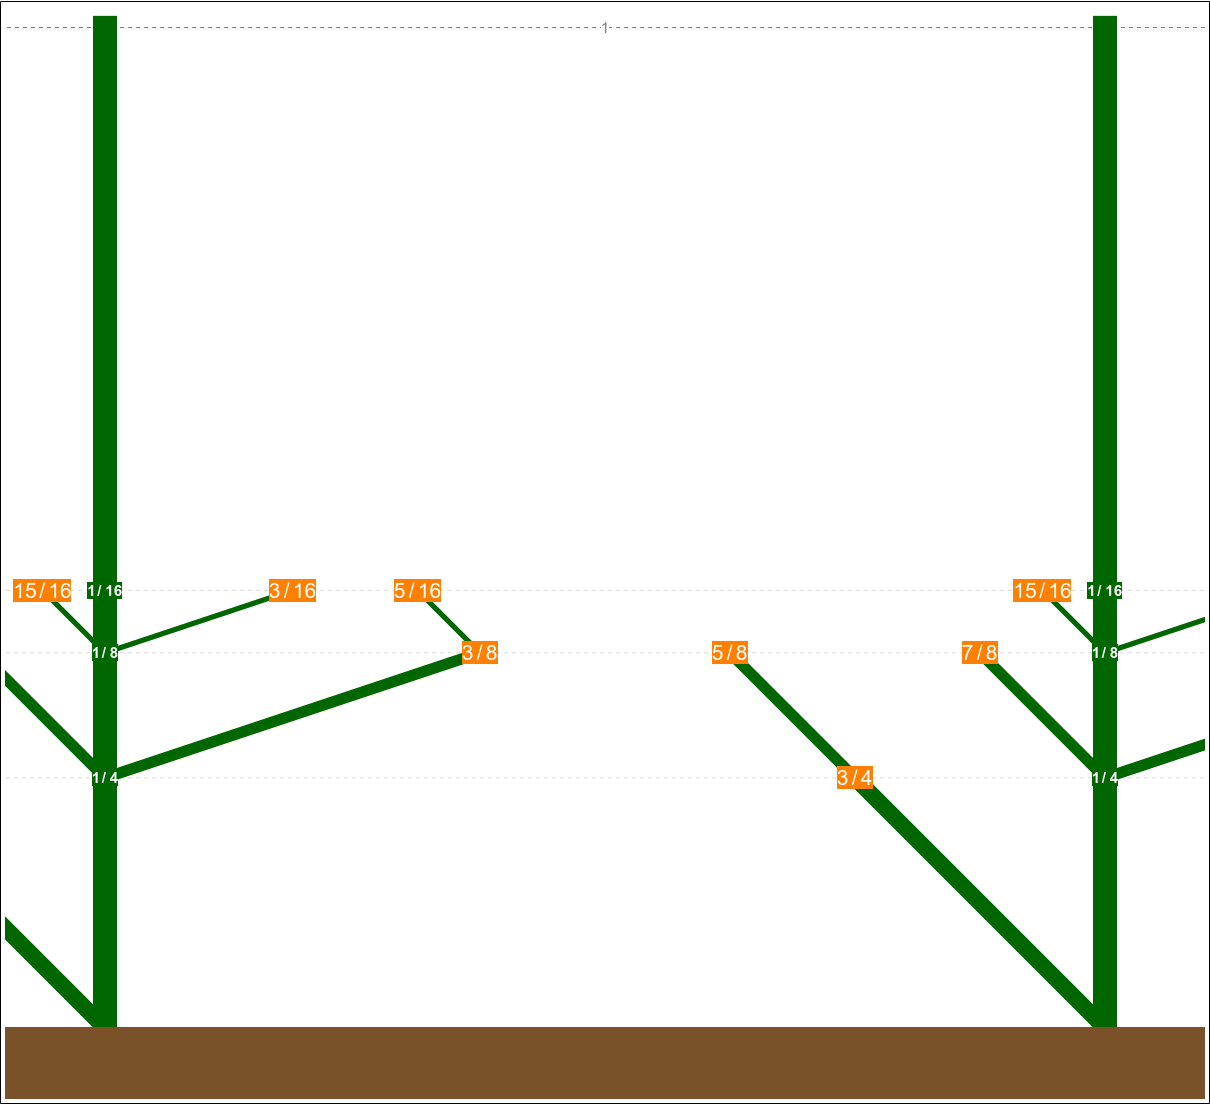
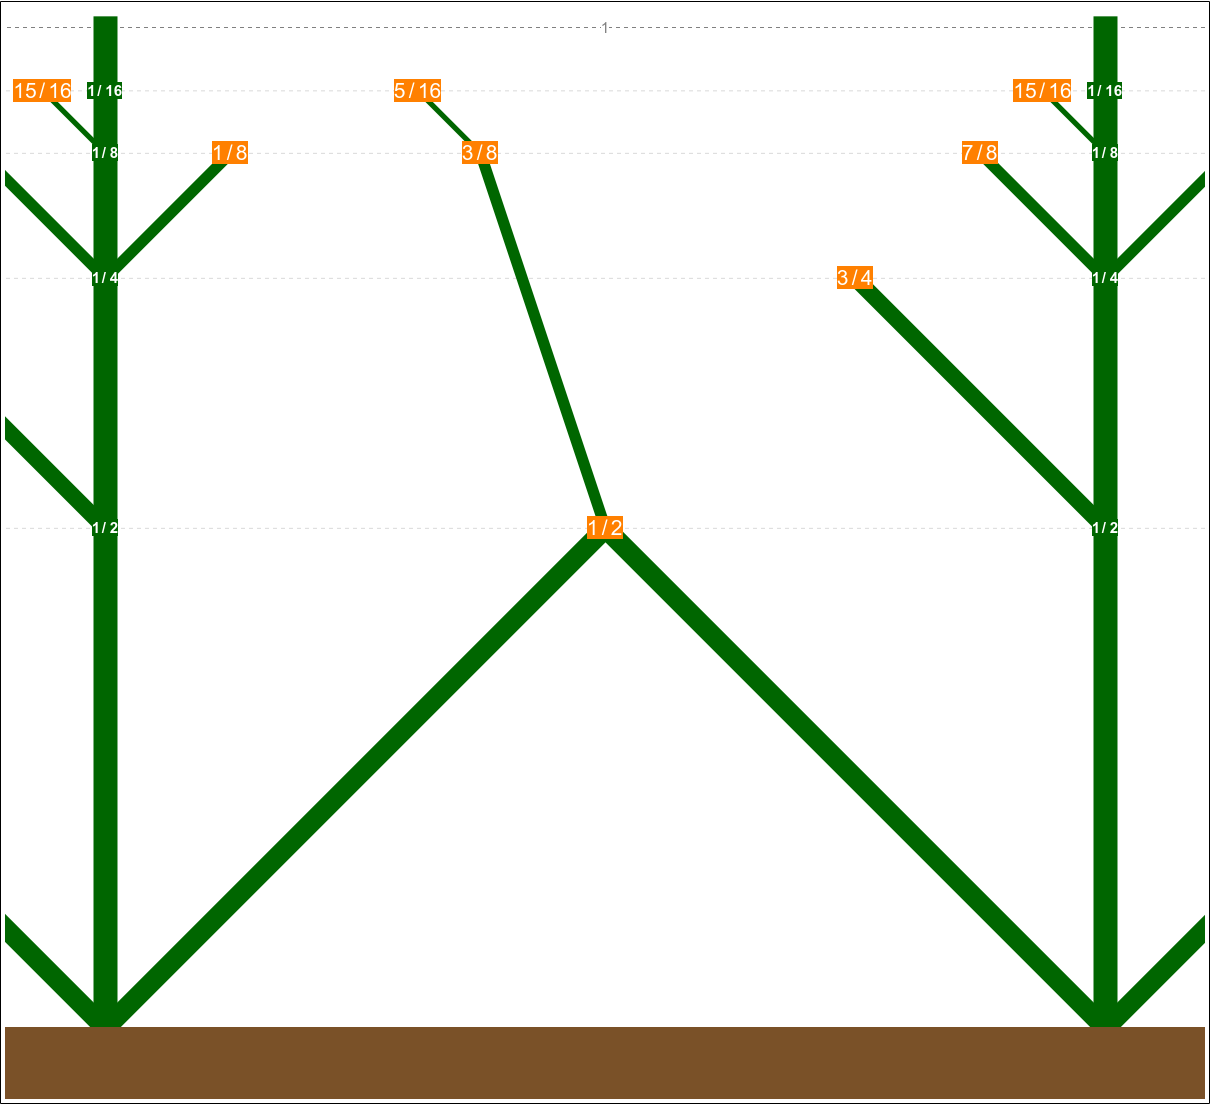
update demo

diff --git a/README.md b/README.md
@@ -15,12 +15,12 @@ In one group of division factors: `{x[0],x[1],...,x[i]}`, we will make sure all 
 ## Deficiency
 This algorithm is currently doing mannuly. Automatic algrithm seems too difficult to search now.
 ## Demos
-### demo
-`{3, 2, 1, 4, 2, 2, 1, 1}`
+### demo (middle east rhythm)
+`{2, 3, 1, 2, 4, 2, 1, 1}`
 ![Alt Text](https://github.com/RobertBoganKang/rhythm_division/blob/master/demo/demo.png)
-### demo2
+### demo2 (substitute)
 `{3, {2, 1}, {1, 1, 1}, 3}`
 ![Alt Text](https://github.com/RobertBoganKang/rhythm_division/blob/master/demo/demo2.png)
-### division
+### division (division)
 `{{2, 1}, {2, 2}}`
 ![Alt Text](https://github.com/RobertBoganKang/rhythm_division/blob/master/demo/division.png)
